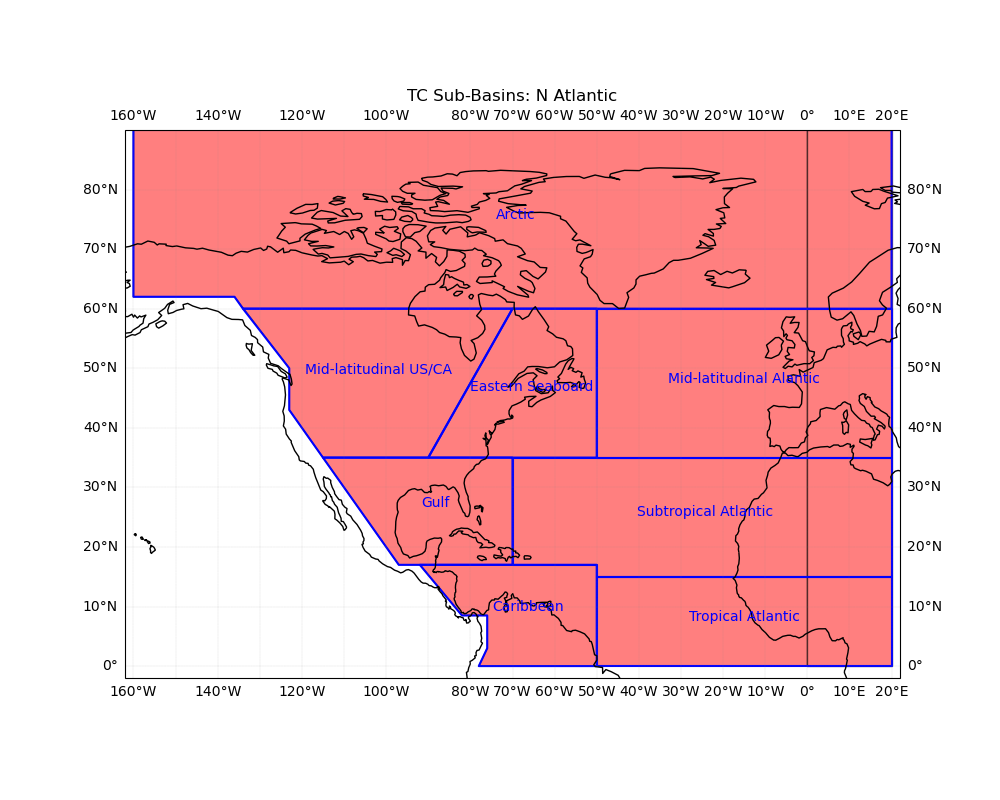
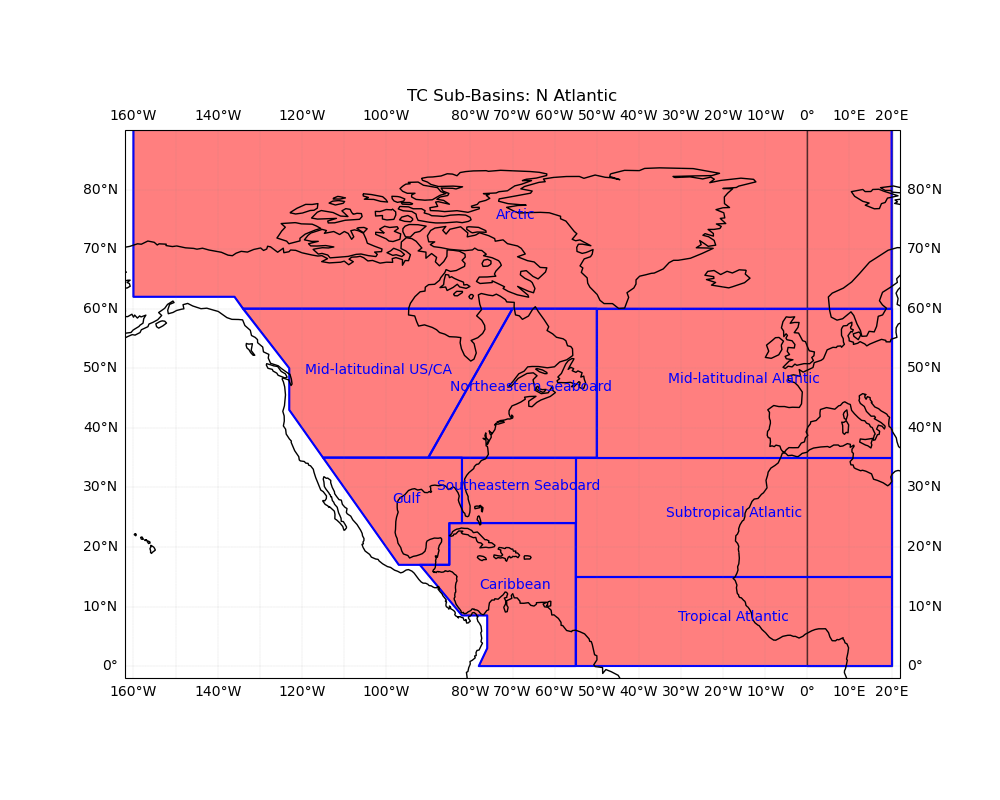
updated NAtl_subbasin script with new sub basin definitions; created SST_ltmm script to filter COBE dataset to SST only and create 4deg version of netcdf file

diff --git a/SST_ltmm.py b/SST_ltmm.py
@@ -1,29 +1,19 @@
 import matplotlib.pyplot as plt
 import matplotlib.ticker as ticker
-import numpy as np
 import pandas as pd
+import xarray as xr
+import rioxarray
 import cartopy.crs as ccrs
 import geopandas as gpd
 from shapely.geometry import Polygon, MultiPolygon, Point
 from shapely.ops import transform
 import cartopy.feature as cfeature
+import numpy as np
 
-#time_coder = xr.coders.CFDatetimeCoder(use_cftime=True)
-
-# open COBE SST long term monthly mean file
-#ds = xr.open_dataset(r"datasets\sst.mon.ltm.1991-2020.nc", decode_times=time_coder)
-
-# Print dataset summary
-#print(ds)
-
-
-# plot tc_basins over world map
-
-
-
-
+# read in basin definition file
 polygons_dict = {}
 
+# read in basin definition file
 with open("tc_basins.dat", "r") as f:
     for line in f:
         line = line.strip()
@@ -66,105 +56,51 @@ basins["geometry"] = basins["geometry"].buffer(0)
 # remove empy geometries
 basins = basins[~basins.geometry.is_empty]
 
-# convert lon to -180-180
-import shapely.ops
-def shift_lon(geom):
-    return shapely.ops.transform(
+# convert basins' lon to -180-180
+basins["geometry"] = basins["geometry"].apply(
+    lambda geom: transform(
         lambda x, y: (((x + 180) % 360) - 180, y),
         geom
     )
-basins["geometry"] = basins["geometry"].apply(shift_lon)
-
-# filter to NE Atlantic basin only
-basin_name = "N Atlantic"
-basins_NAtl = basins[basins["basin name"] == basin_name]
-
-# read in NAtl subbasin polygons
-sub_polygons_dict = {}
-
-with open("tc_subbasins_NAtl.dat", "r") as f:
-    for line in f:
-        line = line.strip()
-        if not line or line.startswith("#"):
-            continue
-
-        parts = line.split(",")
-        sub_basin_name = parts[0].replace('"', '')
-        n_vertices = int(parts[1])
-
-        lon_vals = list(map(float, parts[2:2+n_vertices]))
-        lat_vals = list(map(float, parts[2+n_vertices:2+2*n_vertices]))
-
-        coords = list(zip(lon_vals, lat_vals))
-        poly = Polygon(coords)
-
-        if sub_basin_name not in sub_polygons_dict:
-            sub_polygons_dict[sub_basin_name] = []
-        sub_polygons_dict[sub_basin_name].append(poly)
-
-# Convert to GeoDataFrame
-sub_basin_records = []
-
-for name, poly_list in sub_polygons_dict.items():
-    if len(poly_list) == 1:
-        geom = poly_list[0]
-    else:
-        geom = MultiPolygon(poly_list)
-
-    sub_basin_records.append({
-        "sub_basin_name": name,
-        "geometry": geom
-    })
-
-sub_basins = gpd.GeoDataFrame(sub_basin_records, crs="EPSG:4326",geometry="geometry")
-
-# fix invalid polygons
-sub_basins["geometry"] = sub_basins["geometry"].buffer(0)
-
-# remove empty geometries
-sub_basins = sub_basins[~sub_basins.geometry.is_empty]
-
-# shift lon
-sub_basins["geometry"] = sub_basins["geometry"].apply(shift_lon)
-
-
-# choose projection
-fig = plt.figure(figsize=(10, 8))
-ax = plt.axes(projection=ccrs.PlateCarree())
-
-# add coastlines
-ax.add_feature(cfeature.COASTLINE, linewidth=1)
-
-# plot only selected basin
-basins_NAtl.plot(ax=ax, edgecolor="black", facecolor="red", alpha=0.5, transform=ccrs.PlateCarree())
-
-# overlay subbasins
-sub_basins.plot(ax=ax, edgecolor="blue", facecolor="none", linewidth=1.5, transform=ccrs.PlateCarree())
-
-# Zoom to basin
-minx, miny, maxx, maxy = basins_NAtl.total_bounds
-pad = 2
-ax.set_extent([minx-pad, maxx+pad, miny-pad, maxy+pad], crs=ccrs.PlateCarree())
-
-# Add gridlines with labels
-gl = ax.gridlines(
-    draw_labels=True,
-    linewidth=0.1,
-    color='gray',
-    linestyle='--'
 )
 
-for idx, row in sub_basins.iterrows():
-    geom = row.geometry
-    name = row["sub_basin_name"]
-    centroid = geom.centroid
-    ax.text(centroid.x, centroid.y, name, fontsize=10, color="blue", ha="center")
+# open COBE SST long term monthly mean file
+time_coder = xr.coders.CFDatetimeCoder(use_cftime=True)
+ds = xr.open_dataset(r"datasets\sst.mon.ltm.1991-2020.nc", decode_times=time_coder)
 
-gl.xlocator = plt.MultipleLocator(10)  # longitude every 10°
-gl.ylocator = plt.MultipleLocator(10)  # latitude every 10°
-gl.xlabel_style = {'size': 10, 'color': 'black'}
-gl.ylabel_style = {'size': 10, 'color': 'black'}
+# filter to only SST variable
+sst = ds["sst"]
 
-plt.title(f"TC Sub-Basins: {basin_name}")
-plt.savefig("./images/sub_basins/NAtlantic_sub_basins.png")
+# convert lon to -180-180
+sst = sst.assign_coords(
+    lon=(((sst.lon + 180) % 360) - 180)
+).sortby("lon")
+
+# add CRS and spatial dims
+sst = sst.rio.write_crs("EPSG:4326")
+sst = sst.rio.set_spatial_dims(x_dim="lon", y_dim="lat")
+
+# filter to N Atlantic basin
+region = basins[basins["basin name"] == "N Atlantic"]
+
+sst_filt = sst.rio.clip(
+    region.geometry,
+    region.crs,
+    drop=True
+)
+
+# change deg spacing from 1deg to 4deg
+sst_4deg = sst_filt.coarsen(
+    lat=4,
+    lon=4,
+    boundary="trim"
+).mean()
+
+# checks
+print(sst_filt.shape)
+
+print(float(sst_filt.min()), float(sst_filt.max()))
+
+sst_4deg.isel(time=0).plot(cmap="viridis")
+plt.title("Basin SST 4° Grid (Month 1)")
 plt.show()

diff --git a/NAtl_subbasin_plot.py b/NAtl_subbasin_plot.py
@@ -1,0 +1,170 @@
+import matplotlib.pyplot as plt
+import matplotlib.ticker as ticker
+import numpy as np
+import pandas as pd
+import cartopy.crs as ccrs
+import geopandas as gpd
+from shapely.geometry import Polygon, MultiPolygon, Point
+from shapely.ops import transform
+import cartopy.feature as cfeature
+
+#time_coder = xr.coders.CFDatetimeCoder(use_cftime=True)
+
+# open COBE SST long term monthly mean file
+#ds = xr.open_dataset(r"datasets\sst.mon.ltm.1991-2020.nc", decode_times=time_coder)
+
+# Print dataset summary
+#print(ds)
+
+
+# plot tc_basins over world map
+
+
+
+
+polygons_dict = {}
+
+with open("tc_basins.dat", "r") as f:
+    for line in f:
+        line = line.strip()
+        if not line or line.startswith("#"):
+            continue
+
+        parts = line.split(",")
+        basin_name = parts[0].replace('"', '')
+        n_vertices = int(parts[1])
+
+        lon_vals = list(map(float, parts[2:2+n_vertices]))
+        lat_vals = list(map(float, parts[2+n_vertices:2+2*n_vertices]))
+
+        coords = list(zip(lon_vals, lat_vals))
+        poly = Polygon(coords)
+
+        if basin_name not in polygons_dict:
+            polygons_dict[basin_name] = []
+        polygons_dict[basin_name].append(poly)
+
+# Convert to GeoDataFrame
+basin_records = []
+
+for name, poly_list in polygons_dict.items():
+    if len(poly_list) == 1:
+        geom = poly_list[0]
+    else:
+        geom = MultiPolygon(poly_list)
+
+    basin_records.append({
+        "basin name": name,
+        "geometry": geom
+    })
+
+basins = gpd.GeoDataFrame(basin_records, crs="EPSG:4326")
+
+# fix invalid polygons
+basins["geometry"] = basins["geometry"].buffer(0)
+
+# remove empy geometries
+basins = basins[~basins.geometry.is_empty]
+
+# convert lon to -180-180
+import shapely.ops
+def shift_lon(geom):
+    return shapely.ops.transform(
+        lambda x, y: (((x + 180) % 360) - 180, y),
+        geom
+    )
+basins["geometry"] = basins["geometry"].apply(shift_lon)
+
+# filter to NE Atlantic basin only
+basin_name = "N Atlantic"
+basins_NAtl = basins[basins["basin name"] == basin_name]
+
+# read in NAtl subbasin polygons
+sub_polygons_dict = {}
+
+with open("tc_subbasins_NAtl.dat", "r") as f:
+    for line in f:
+        line = line.strip()
+        if not line or line.startswith("#"):
+            continue
+
+        parts = line.split(",")
+        sub_basin_name = parts[0].replace('"', '')
+        n_vertices = int(parts[1])
+
+        lon_vals = list(map(float, parts[2:2+n_vertices]))
+        lat_vals = list(map(float, parts[2+n_vertices:2+2*n_vertices]))
+
+        coords = list(zip(lon_vals, lat_vals))
+        poly = Polygon(coords)
+
+        if sub_basin_name not in sub_polygons_dict:
+            sub_polygons_dict[sub_basin_name] = []
+        sub_polygons_dict[sub_basin_name].append(poly)
+
+# Convert to GeoDataFrame
+sub_basin_records = []
+
+for name, poly_list in sub_polygons_dict.items():
+    if len(poly_list) == 1:
+        geom = poly_list[0]
+    else:
+        geom = MultiPolygon(poly_list)
+
+    sub_basin_records.append({
+        "sub_basin_name": name,
+        "geometry": geom
+    })
+
+sub_basins = gpd.GeoDataFrame(sub_basin_records, crs="EPSG:4326",geometry="geometry")
+
+# fix invalid polygons
+sub_basins["geometry"] = sub_basins["geometry"].buffer(0)
+
+# remove empty geometries
+sub_basins = sub_basins[~sub_basins.geometry.is_empty]
+
+# shift lon
+sub_basins["geometry"] = sub_basins["geometry"].apply(shift_lon)
+
+
+# choose projection
+fig = plt.figure(figsize=(10, 8))
+ax = plt.axes(projection=ccrs.PlateCarree())
+
+# add coastlines
+ax.add_feature(cfeature.COASTLINE, linewidth=1)
+
+# plot only selected basin
+basins_NAtl.plot(ax=ax, edgecolor="black", facecolor="red", alpha=0.5, transform=ccrs.PlateCarree())
+
+# overlay subbasins
+sub_basins.plot(ax=ax, edgecolor="blue", facecolor="none", linewidth=1.5, transform=ccrs.PlateCarree())
+
+# Zoom to basin
+minx, miny, maxx, maxy = basins_NAtl.total_bounds
+pad = 2
+ax.set_extent([minx-pad, maxx+pad, miny-pad, maxy+pad], crs=ccrs.PlateCarree())
+
+# Add gridlines with labels
+gl = ax.gridlines(
+    draw_labels=True,
+    linewidth=0.1,
+    color='gray',
+    linestyle='--'
+)
+
+for idx, row in sub_basins.iterrows():
+    geom = row.geometry
+    name = row["sub_basin_name"]
+    centroid = geom.centroid
+    ax.text(centroid.x, centroid.y, name, fontsize=10, color="blue", ha="center")
+
+gl.xlocator = plt.MultipleLocator(10)  # longitude every 10°
+gl.ylocator = plt.MultipleLocator(10)  # latitude every 10°
+gl.xlabel_style = {'size': 10, 'color': 'black'}
+gl.ylabel_style = {'size': 10, 'color': 'black'}
+
+plt.title(f"TC Sub-Basins: {basin_name}")
+plt.savefig("./images/sub_basins/NAtlantic_sub_basins.png")
+plt.show()
